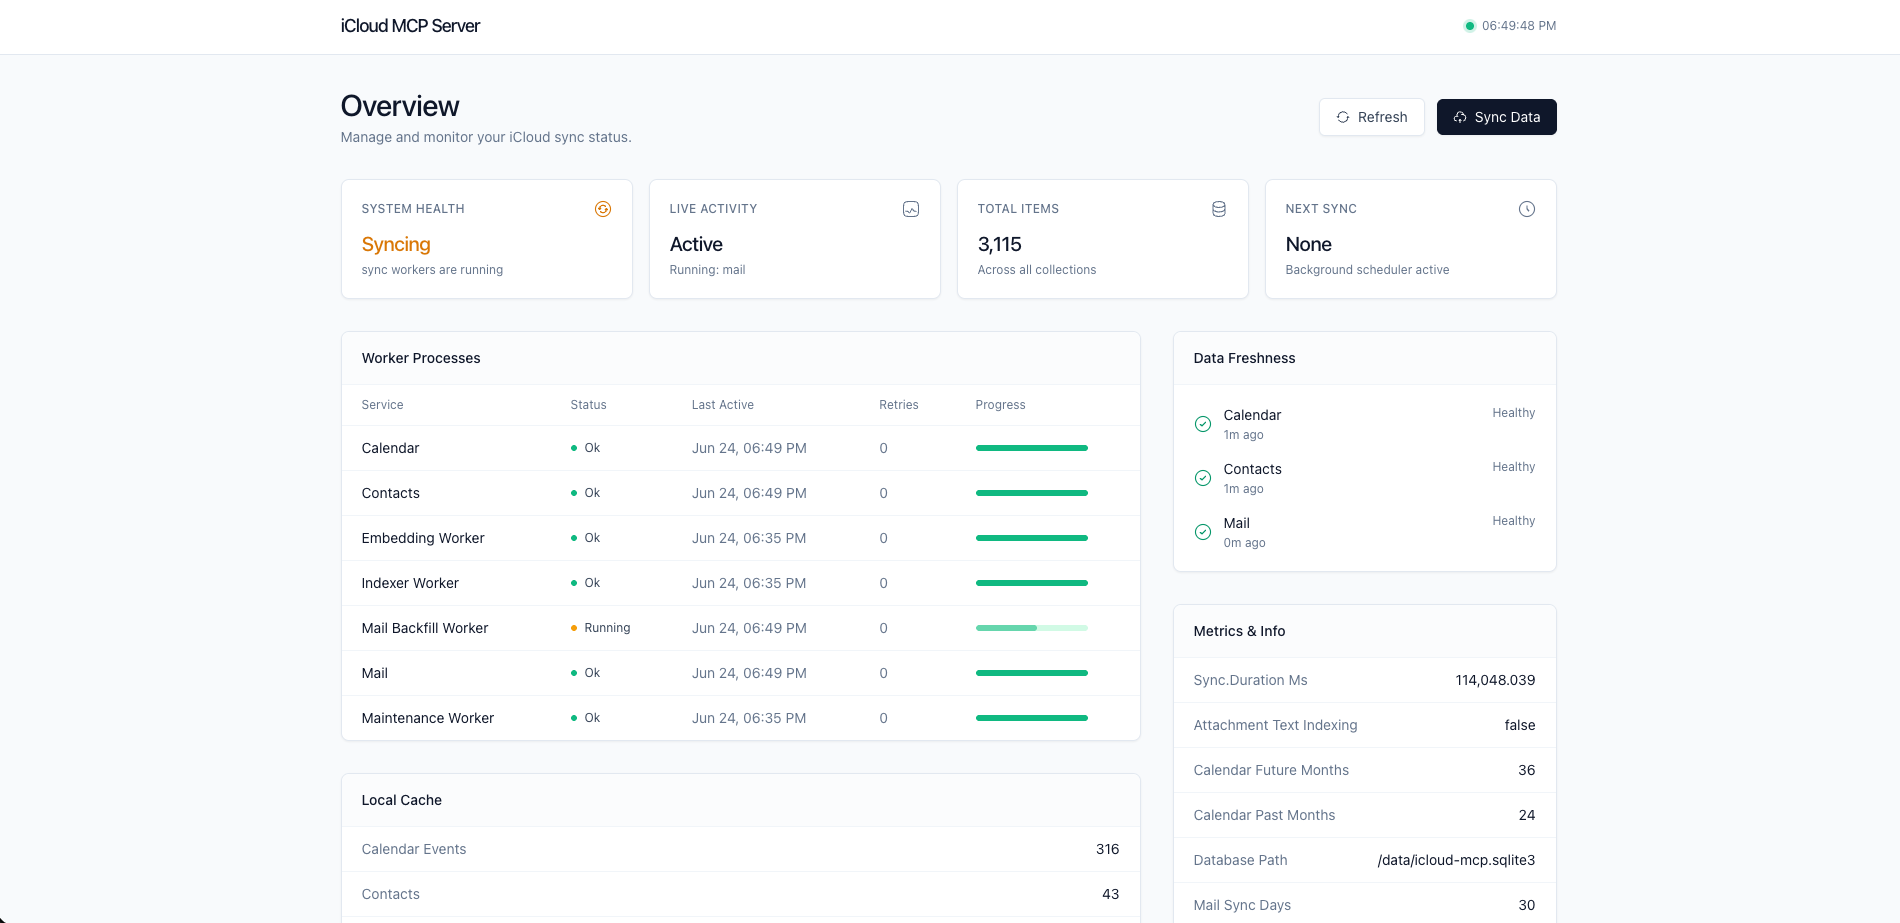
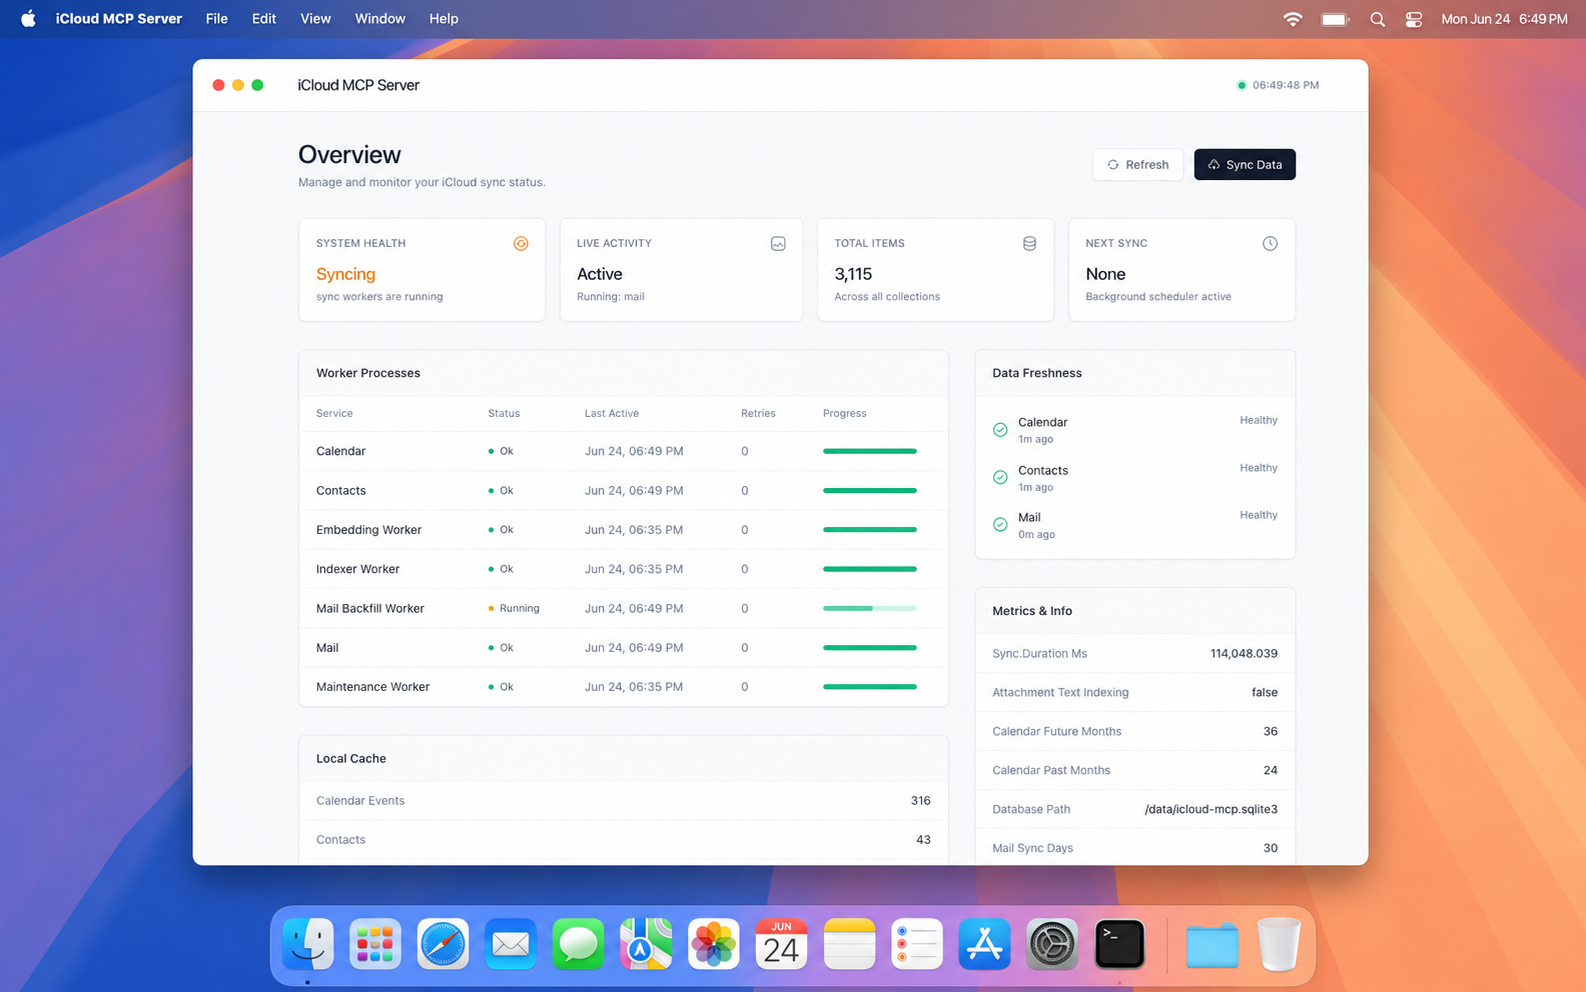
docs(readme): update dashboard image size and layout

diff --git a/README.md b/README.md
@@ -4,16 +4,11 @@
 
 **Local-first MCP access to iCloud Mail, Calendar, and Contacts.**
 
-[![CI/CD](https://img.shields.io/github/actions/workflow/status/denisdasilvarocha/icloud-mcp-server/ci-cd.yml?branch=main&style=flat-square&label=CI%2FCD&logo=githubactions&logoColor=white)](https://github.com/denisdasilvarocha/icloud-mcp-server/actions/workflows/ci-cd.yml)
-[![Python](https://img.shields.io/badge/Python-%3E%3D3.11-3776AB?style=flat-square&logo=python&logoColor=white)](https://www.python.org/)
-[![FastMCP](https://img.shields.io/badge/FastMCP-server-111827?style=flat-square)](https://github.com/jlowin/fastmcp)
-[![uv](https://img.shields.io/badge/uv-managed-654FF0?style=flat-square)](https://docs.astral.sh/uv/)
-[![Ruff](https://img.shields.io/badge/code_style-ruff-46A5E5?style=flat-square)](https://docs.astral.sh/ruff/)
-[![Version](https://img.shields.io/badge/version-0.1.0-31c48d?style=flat-square)](pyproject.toml)
+[![CI/CD](https://img.shields.io/github/actions/workflow/status/denisdasilvarocha/icloud-mcp-server/ci-cd.yml?branch=main&style=flat-square&label=CI%2FCD&logo=githubactions&logoColor=white)](https://github.com/denisdasilvarocha/icloud-mcp-server/actions/workflows/ci-cd.yml) [![Python](https://img.shields.io/badge/Python-%3E%3D3.11-3776AB?style=flat-square&logo=python&logoColor=white)](https://www.python.org/) [![FastMCP](https://img.shields.io/badge/FastMCP-server-111827?style=flat-square)](https://github.com/jlowin/fastmcp) [![uv](https://img.shields.io/badge/uv-managed-654FF0?style=flat-square)](https://docs.astral.sh/uv/) [![Ruff](https://img.shields.io/badge/code_style-ruff-46A5E5?style=flat-square)](https://docs.astral.sh/ruff/) [![Version](https://img.shields.io/badge/version-0.1.0-31c48d?style=flat-square)](pyproject.toml)
 
 [Features](#features) · [Setup](#setup) · [MCP Tools](#mcp-tools) · [Configuration](#configuration) · [Development](#development)
 
-<img src=".github/assets/dashboard.png" alt="iCloud MCP Server dashboard" width="860">
+<img src=".github/assets/dashboard.png" alt="iCloud MCP Server dashboard" width="1440">
 
 </div>
 